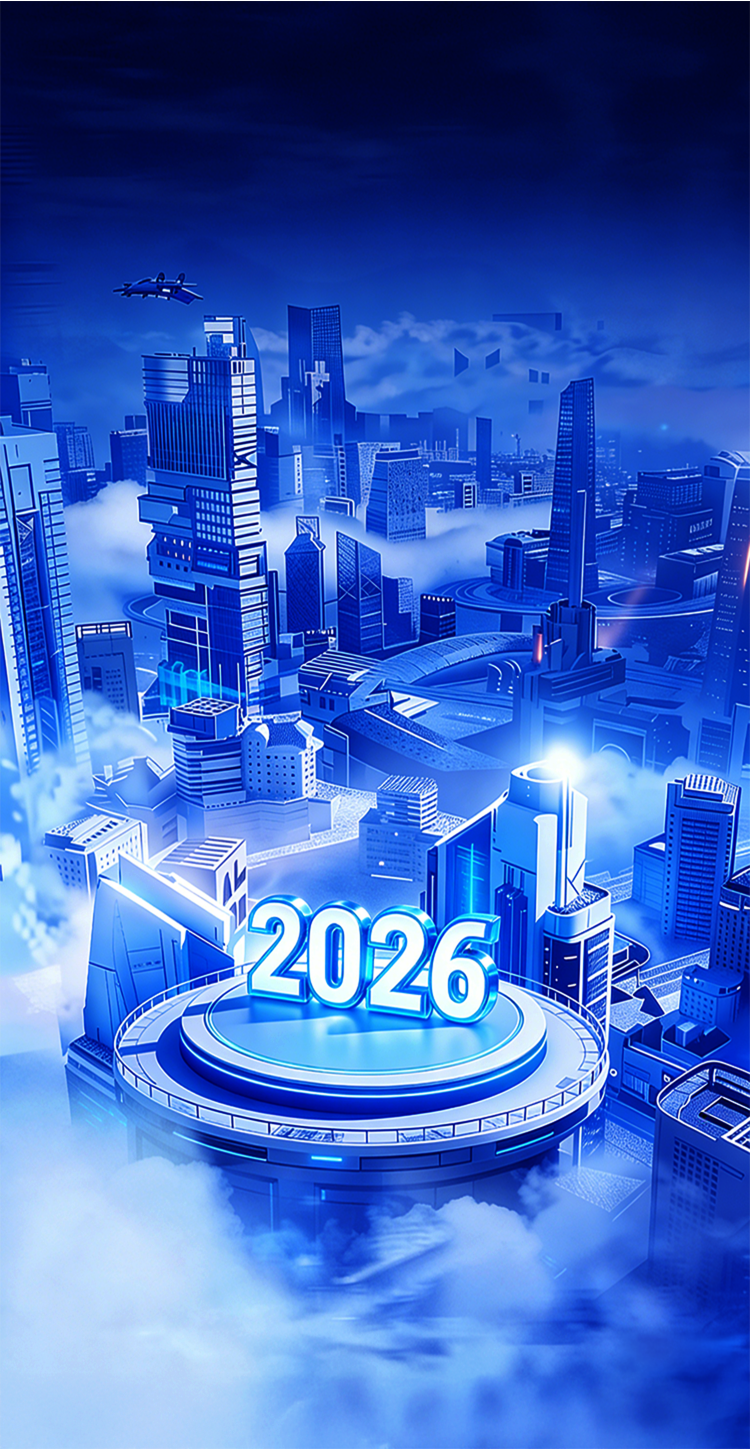
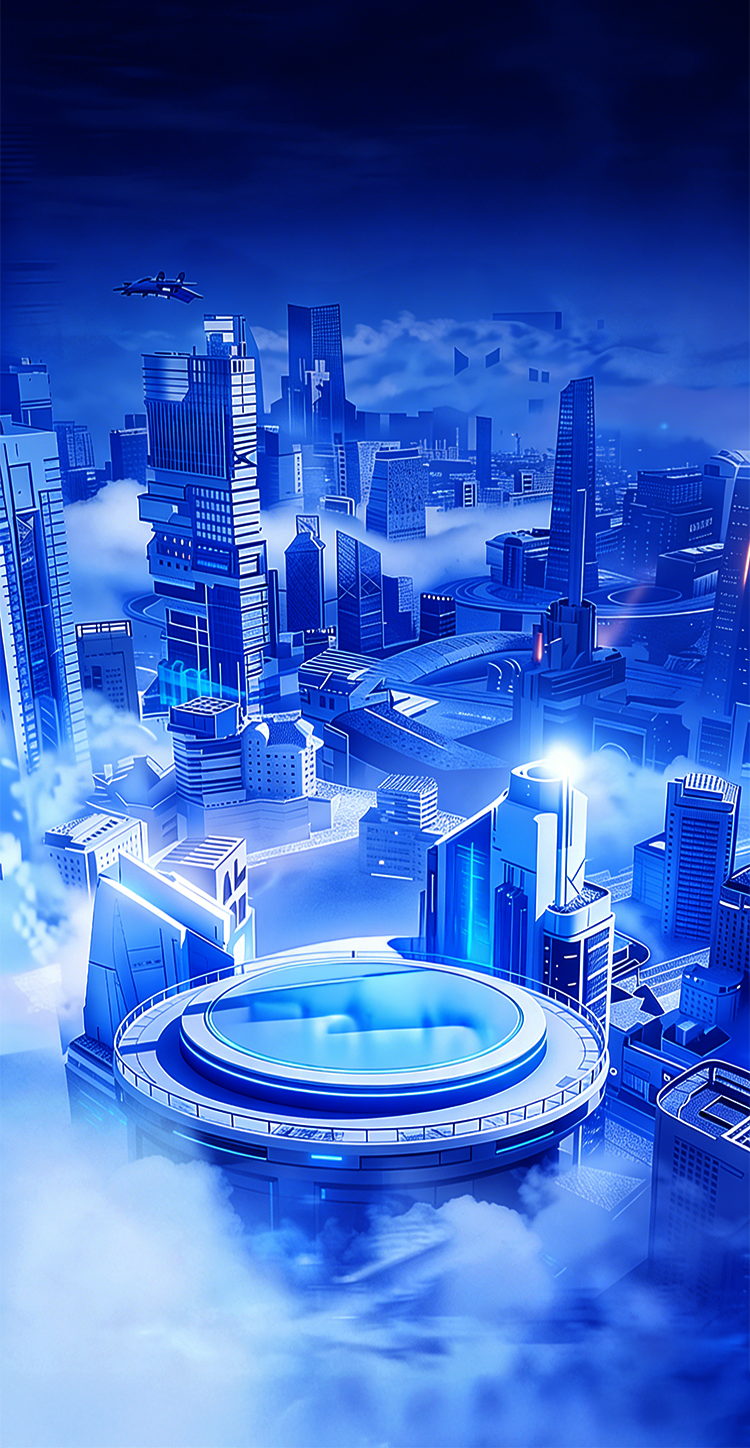
feat(homepage): 添加2026图片与作者详情跳转功能
- 在首页添加2026图片并应用入场动画与悬浮效果
- 为话题详情页的作者姓名添加点击跳转功能，支持查看作者详情
- 更新首页背景图片并优化响应式布局
- 移除mock数据中的注释行并修复文件结尾格式

diff --git a/src/pages/index/index.vue b/src/pages/index/index.vue
@@ -6,6 +6,7 @@ import enterButtonImage from '@/assets/homepage/button.png'
 import logo_01 from '@/assets/homepage/logo1.png'
 import logo_02 from '@/assets/homepage/logo2.png'
 import logo_03 from '@/assets/homepage/logo3.png'
+import year_2026 from '@/assets/homepage/2026.png'
 const router = useRouter()
 const handleEnter = () => {
   router.push('/footprint')
@@ -14,31 +15,42 @@ const handleEnter = () => {
 
 <template>
   <main class="landing-page" :style="{ backgroundImage: `url(${bgImage})` }">
-    <div class="landing-page__logo">
-      <img class="landing-page__logo_01" :src="logo_01" alt="Top-left logo" />
-      <img class="landing-page__logo_02" :src="logo_02" alt="Top-left logo" />
-      <img class="landing-page__logo_03" :src="logo_03" alt="Top-left logo" />
-    </div>
-    <img class="landing-page__title" :src="titleImage" alt="Title placeholder" />
+    <section class="landing-page__stage">
+      <div class="landing-page__logo">
+        <img class="landing-page__logo_01" :src="logo_01" alt="Top-left logo" />
+        <img class="landing-page__logo_02" :src="logo_02" alt="Top-left logo" />
+        <img class="landing-page__logo_03" :src="logo_03" alt="Top-left logo" />
+      </div>
+      <img class="landing-page__title" :src="titleImage" alt="Title placeholder" />
 
-    <button class="landing-page__enter" type="button" @click="handleEnter">
-      <img :src="enterButtonImage" alt="Enter button placeholder" />
-    </button>
+      <img class="landing-page__year2026" :src="year_2026" aria-label="2026 image" />
+
+      <button class="landing-page__enter" type="button" @click="handleEnter">
+        <img :src="enterButtonImage" alt="Enter button placeholder" />
+      </button>
+    </section>
   </main>
 </template>
 
 <style scoped>
 .landing-page {
-  position: relative;
   width: 100vw;
-  max-width: none;
   height: 100vh;
   height: 100dvh;
+  position: relative;
   overflow: hidden;
   background: #05145f;
+  display: flex;
+  justify-content: center;
   background-repeat: no-repeat;
   background-position: center top;
   background-size: cover;
+}
+
+.landing-page__stage {
+  position: relative;
+  width: min(100vw, calc(100dvh * 380 / 823));
+  height: 100%;
 }
 
 .landing-page__logo {
@@ -67,29 +79,107 @@ const handleEnter = () => {
 
 .landing-page__title {
   position: absolute;
-  top: 13%;
+  top: 12.5%;
   left: 50%;
   width: 78%;
-  max-width: 520px;
   transform: translateX(-50%);
 }
 
 .landing-page__enter {
   position: absolute;
   left: 50%;
-  bottom: 7%;
+  bottom: calc(6% + env(safe-area-inset-bottom));
   width: 44%;
-  min-width: 180px;
-  max-width: 300px;
   padding: 0;
   border: 0;
   background: transparent;
   transform: translateX(-50%);
+  /* 故障闪烁动画 */
+  animation: glitch-skew 3s cubic-bezier(0.25, 0.46, 0.45, 0.94) infinite both;
+}
+
+.landing-page__year2026 {
+  position: absolute;
+  left: 50%;
+  bottom: 27.5%;
+  width: 52%;
+  aspect-ratio: 2.5 / 1;
+  transform: translateX(-50%);
+  /* 动画设置：先执行入场(1s)，紧接着执行悬浮(3s无限循环) */
+  animation:
+    enter2026 1s cubic-bezier(0.2, 0.8, 0.2, 1) forwards,
+    floatGlow 4s ease-in-out infinite 1s; /* 延迟1s等待入场结束 */
+  opacity: 0; /* 初始隐藏，由动画控制显示 */
 }
 
 .landing-page__enter img {
   display: block;
   width: 100%;
   height: auto;
+}
+@media screen and (max-width: 390px) {
+  .landing-page__year2026 {
+    bottom: 22.2%;
+    width: 54%;
+  }
+}
+@keyframes glitch-skew {
+  0%,
+  100% {
+    transform: translateX(-50%) skew(0deg);
+    opacity: 1;
+  }
+  10% {
+    transform: translateX(-50%) skew(-2deg);
+    opacity: 0.9;
+  }
+  20% {
+    transform: translateX(-50%) skew(2deg);
+    opacity: 1;
+  }
+  30% {
+    transform: translateX(-50%) skew(0deg);
+    filter: brightness(1);
+  }
+  32% {
+    transform: translateX(-48%) skew(5deg); /* 瞬间错位 */
+    filter: brightness(2) hue-rotate(90deg); /* 瞬间变色变亮 */
+  }
+  34% {
+    transform: translateX(-50%) skew(0deg);
+    filter: brightness(1);
+  }
+  /* 后面大部分时间保持静止，制造随机感 */
+  40%,
+  90% {
+    transform: translateX(-50%);
+  }
+}
+/* 入场动画：从下往上 + 模糊变清晰 */
+@keyframes enter2026 {
+  0% {
+    opacity: 0;
+    transform: translateX(-50%) translateY(40px) scale(0.9);
+    filter: blur(10px);
+  }
+  100% {
+    opacity: 1;
+    transform: translateX(-50%) translateY(0) scale(1);
+    filter: blur(0);
+  }
+}
+
+/* 持续动画：上下悬浮 + 投影呼吸 */
+@keyframes floatGlow {
+  0%,
+  100% {
+    transform: translateX(-50%) translateY(0);
+    filter: drop-shadow(0 0 0px rgba(138, 200, 255, 0));
+  }
+  50% {
+    transform: translateX(-50%) translateY(-10px);
+    /* 如果图片是透明PNG，drop-shadow会产生很好的发光效果 */
+    filter: drop-shadow(0 0 15px rgba(100, 220, 255, 0.6));
+  }
 }
 </style>

diff --git a/src/pages/topic/detail.vue b/src/pages/topic/detail.vue
@@ -89,6 +89,25 @@ const handleCardClick = () => {
   })
 }
 
+const normalizeAuthorName = (author) => {
+  const text = String(author || '').trim()
+  const tail = text.split(/\s+/).pop() || text
+  return tail.replace(/^[^A-Za-z0-9\u4e00-\u9fa5]+/, '')
+}
+
+const goAuthorDetail = (card) => {
+  const authorName = normalizeAuthorName(card?.author)
+  if (!authorName) return
+
+  router.push({
+    name: 'topicAuthor',
+    query: {
+      year: activeYear.value,
+      author: authorName,
+    },
+  })
+}
+
 const getWobbleStyle = () => {
   return {
     animationDelay: `-${Math.random() * 5}s`,
@@ -138,7 +157,14 @@ const getWobbleStyle = () => {
               <p class="detail-card__content">“{{ card.content }}”</p>
 
               <div class="detail-card__footer">
-                <span class="detail-card__author">{{ card.author }}</span>
+                <button
+                  type="button"
+                  class="detail-card__author-btn"
+                  @click.stop="goAuthorDetail(card)"
+                  @keydown.enter.stop.prevent="goAuthorDetail(card)"
+                >
+                  <span class="detail-card__author">{{ card.author }}</span>
+                </button>
               </div>
 
               <!-- Tag 绝对定位 -->
@@ -321,6 +347,13 @@ const getWobbleStyle = () => {
   color: #c5e9ff;
   opacity: 0.9;
   font-weight: normal;
+}
+
+.detail-card__author-btn {
+  border: 0;
+  padding: 0;
+  background: transparent;
+  cursor: pointer;
 }
 
 /* --- Tag --- */

diff --git a/src/pages/topic/mock.js b/src/pages/topic/mock.js
@@ -7,7 +7,6 @@ export const topicSphereList = [
   { key: 'traffic', label: '交通', size: 'lg' },
   { key: 'livelihood', label: '民生', size: 'sm' },
   { key: 'finance', label: '财税金融', size: 'lg' },
-  // ↓↓↓ 修改这里：size 改为 wide，文字写全 ↓↓↓
   { key: 'chengyu', label: '成渝地区双城经济圈', size: 'wide' },
   { key: 'industry', label: '产业', size: 'sm' },
   { key: 'reform', label: '改革开放', size: 'lg' },
